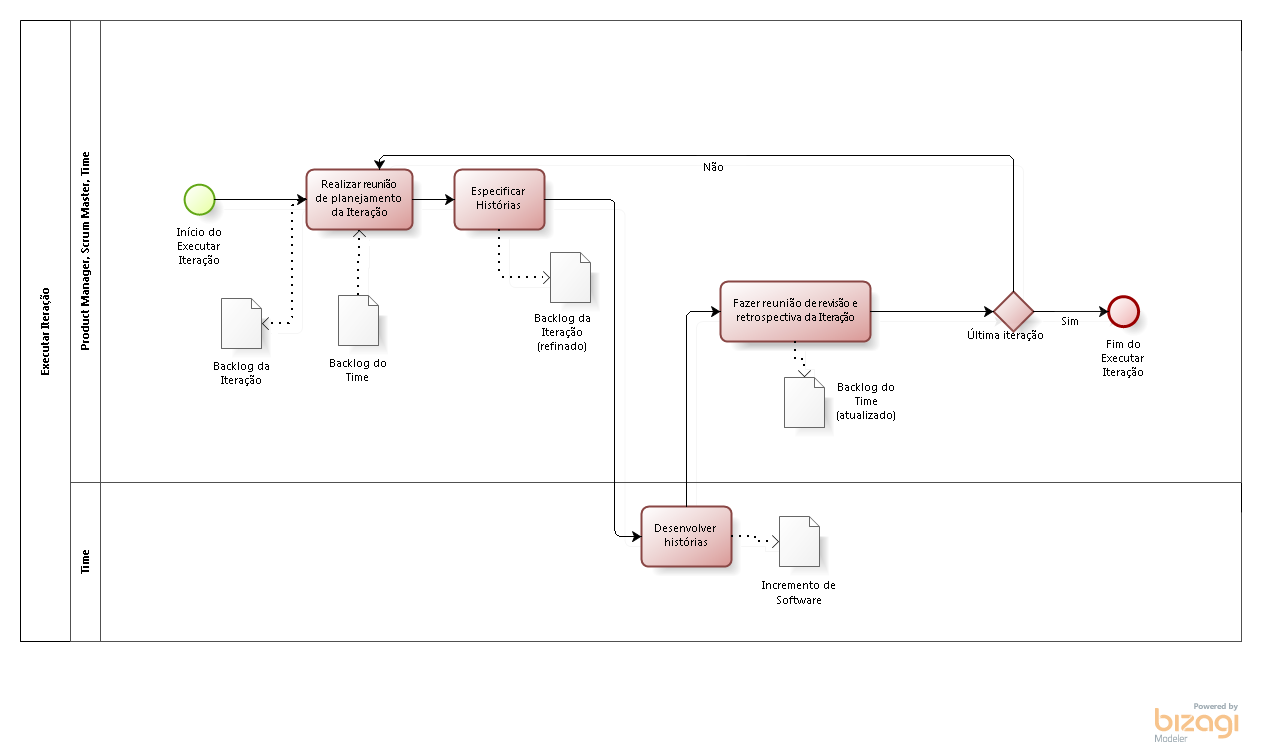
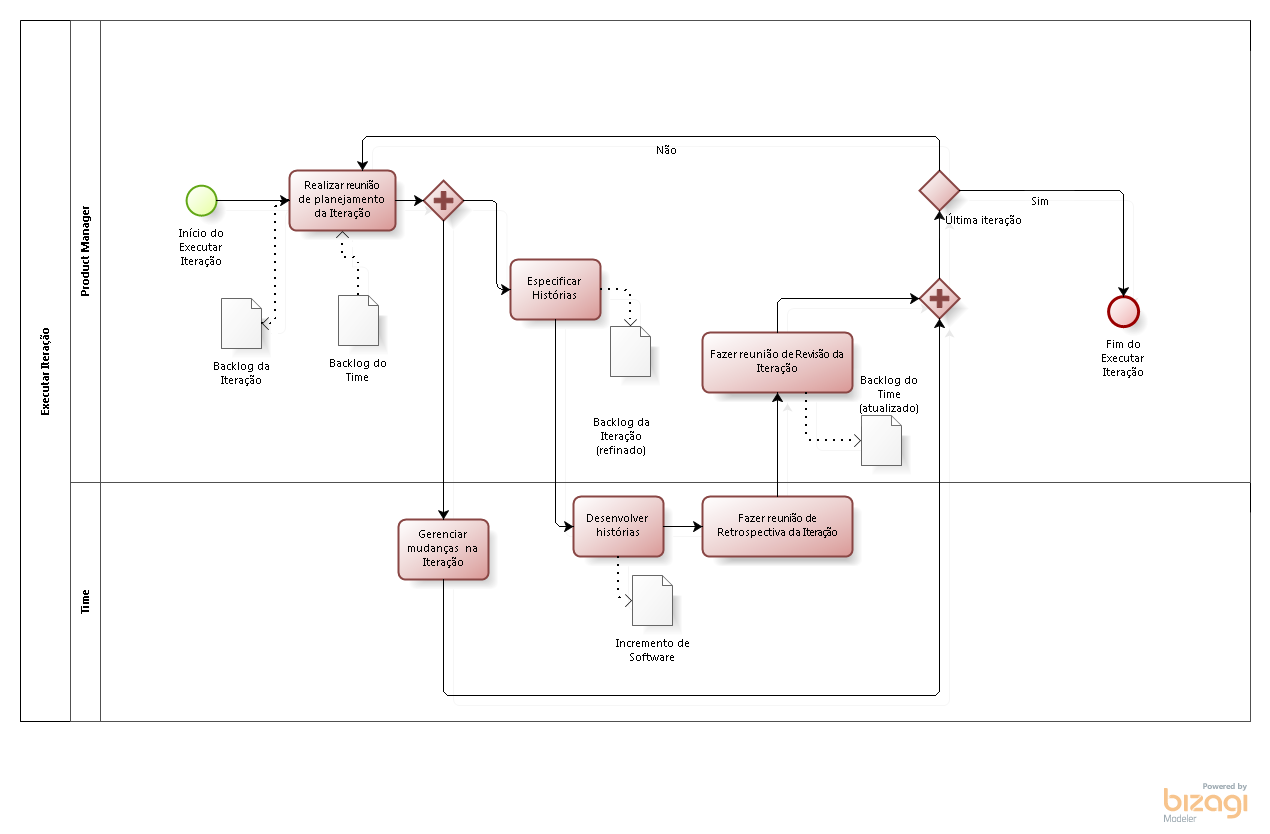
Ajustando as atividades do processo

diff --git a/editaveis/atividades_processo.tex b/editaveis/atividades_processo.tex
@@ -163,36 +163,7 @@ definidos previamente, e se através delas é possível escrever as Histórias d
 
   \textbf{Artefatos de Saída}:  \textit{Roadmap}\\
 
-\begin{figure}[!htb]
-\centering
-\includegraphics[scale=0.7]{figuras/release.png}
-\caption{Subprocesso Executar \textit{Release}}
-\label{fig:release}
-\end{figure}
-
-A partir do Subprocesso da Figura \ref{fig:release} o processo contém as seguintes atividades.
-
-\subsection{Priorizar \textit{features}}
-  \textbf{Descrição}: Essa atividade consiste na priorização das \textit{features} para a \textit{Release}. \\
-
-  \textbf{Tarefas}:
-  \begin{itemize}
-   \item \indent \textit{Reunir \textit{Features}}: Reunir \textit{features} envolvidas na \textit{Release};
-
-   \item \indent \textit{Estudar as \textit{Features}}: Estudar as \textit{features} para melhor entendimento de cada uma;
-
-   \item \indent \textit{Definir Indicador de Complexidade}: Definir um identificador para saber quais demandam mais trabalho (horas de serviço);
-
-   \item \indent \textit{Ordenar}: A partir dos resultados obtidos via análise, ordenar das que mostraram maiores métricas de esforço, até as menores, de modo que as mais difíceis sejam executadas o quanto antes.
-  \end{itemize}
-
-  \textbf{Participantes}: \textit{Product Manager}, \textit{Scrum Master}, Time\\
-
-  \textbf{Artefatos de Entrada}: \textit{Backlog} do Programa \\
-
-  \textbf{Artefatos de Saída}:  \textit{Backlog} do Programa \\
-
-\subsection{Escrever histórias}
+  \subsection{Escrever histórias}
   \textbf{Descrição}: Essa atividade consiste na escrita das histórias em um nível macro, derivadas das \textit{features}, para composição do \textit{Backlog} do Time. \\
 
   \textbf{Tarefas}:
@@ -218,6 +189,50 @@ A partir do Subprocesso da Figura \ref{fig:release} o processo contém as seguin
   \textbf{Artefatos de Entrada}: \textit{Backlog} do Programa \\
 
   \textbf{Artefatos de Saída}:   \textit{Backlog} do Time \\
+
+\subsection{Planejar \textit{Release}}
+  \textbf{Descrição}: Essa atividade consiste na priorização das \textit{features} em iterações para a \textit{Release}. \\
+
+  \textbf{Tarefas}:
+  \begin{itemize}
+   \item \indent \textit{Reunir \textit{Features}}: Reunir \textit{features} envolvidas na \textit{Release};
+
+   \item \indent \textit{Estudar as \textit{Features}}: Estudar as \textit{features} para melhor entendimento de cada uma;
+
+   \item \indent \textit{Definir Indicador de Complexidade}: Definir um identificador para saber quais demandam mais trabalho (horas de serviço);
+
+   \item \indent \textit{Ordenar}: A partir dos resultados obtidos via análise, ordenar das que mostraram maiores métricas de esforço, até as menores, de modo que as mais difíceis sejam executadas o quanto antes.
+  \end{itemize}
+
+  \textbf{Participantes}: \textit{Product Manager}, \textit{Scrum Master}, Time\\
+
+  \textbf{Artefatos de Entrada}: \textit{Backlog} do Programa \\
+
+  \textbf{Artefatos de Saída}:  \textit{Backlog} do Programa \\
+
+\subsection{Gerenciar mudanças no Programa}
+  \textbf{Descrição}: Essa atividade consiste na gerência de mudanças no nível de programa, como o surgimento de novas 
+  \textit{features}, novos épicos e novas histórias. Para cada um dos níveis de abstração requisitos essa atividade gera saída
+  para uma atividade diferente.\\
+
+  \textbf{Tarefas}:
+  \begin{itemize}
+   \item \indent \textit{Verificar o surgimento de novos requisitos}: Analisar se novos requisitos surgiram;
+
+   \item \indent \textit{Analisar impacto da mudança}: Analisar o impacto e a relevância da mudança no projeto e decidir se será considerada
+   ou descartada;
+
+   \item \indent \textit{Registrar novos requisitos}: Registrar novos requisitos, se forem épicos realizar as atividades: Levantar Épicos e 
+   Fazer reunião de validação dos épicos. Se forem \textit{features} realizar as atividades: Levantar Épicos e \textit{Features}  
+   Fazer reunião de validação dos \textit{features} e se forem histórias realizar a atividade de Escrever histórias.
+  
+  \end{itemize}
+
+  \textbf{Participantes}: Time\\
+
+  \textbf{Artefatos de Entrada}: \textit{Backlog} do Programa e do Time \\
+
+  \textbf{Artefatos de Saída}:  \textit{Backlog} do Programa e do Time \\
 
 \begin{figure}[!htb]
 \includegraphics[scale=0.5]{figuras/iteracao.png}
@@ -303,3 +318,26 @@ iteração. \\
   \textbf{Artefatos de Entrada}: Incremento de Software \\
 
   \textbf{Artefatos de Saída}:   \textit{Backlog} do Time \\
+
+\subsection{Gerenciar mudanças na Iteração}
+  \textbf{Descrição}: Essa atividade consiste na gerência de mudanças no nível de time, como o surgimento ou alocação de novas histórias.\\
+
+  \textbf{Tarefas}:
+  \begin{itemize}
+   \item \indent \textit{Verificar o surgimento de novos histórias}: Analisar se novas histórias surgiram;
+
+   \item \indent \textit{Verificar a necessidade de realocar histórias}: Analisar se será necessário realocar histórias em outra iteração;
+   
+   \item \indent \textit{Analisar impacto da mudança}: Analisar o impacto e a relevância da mudança na iteração e decidir se será considerada
+   ou descartada;
+
+   \item \indent \textit{Registrar novas histórias}: Registrar novas histórias e realizar a atividade de Escrever histórias.
+
+   \item \indent \textit{Realocar histórias}: Realocar as histórias em outra iteração.
+  \end{itemize}
+
+  \textbf{Participantes}: Time\\
+
+  \textbf{Artefatos de Entrada}: \textit{Backlog} do Time e da Iteração\\
+
+  \textbf{Artefatos de Saída}:  \textit{Backlog} do Time e da Iteração\\

diff --git a/editaveis/secoes/processo.tex b/editaveis/secoes/processo.tex
@@ -40,9 +40,8 @@ Iteração.
 
 \pagebreak
 \begin{figure}[!htb]
-\centering
-
-\includegraphics[scale=0.8, angle = -90]{figuras/processo.png}
+\flushleft
+\includegraphics[scale=0.6]{figuras/processo.png}
 \caption{Processo de Engenharia de Requisitos}
 \label{fig:Processo}
 \end{figure}
